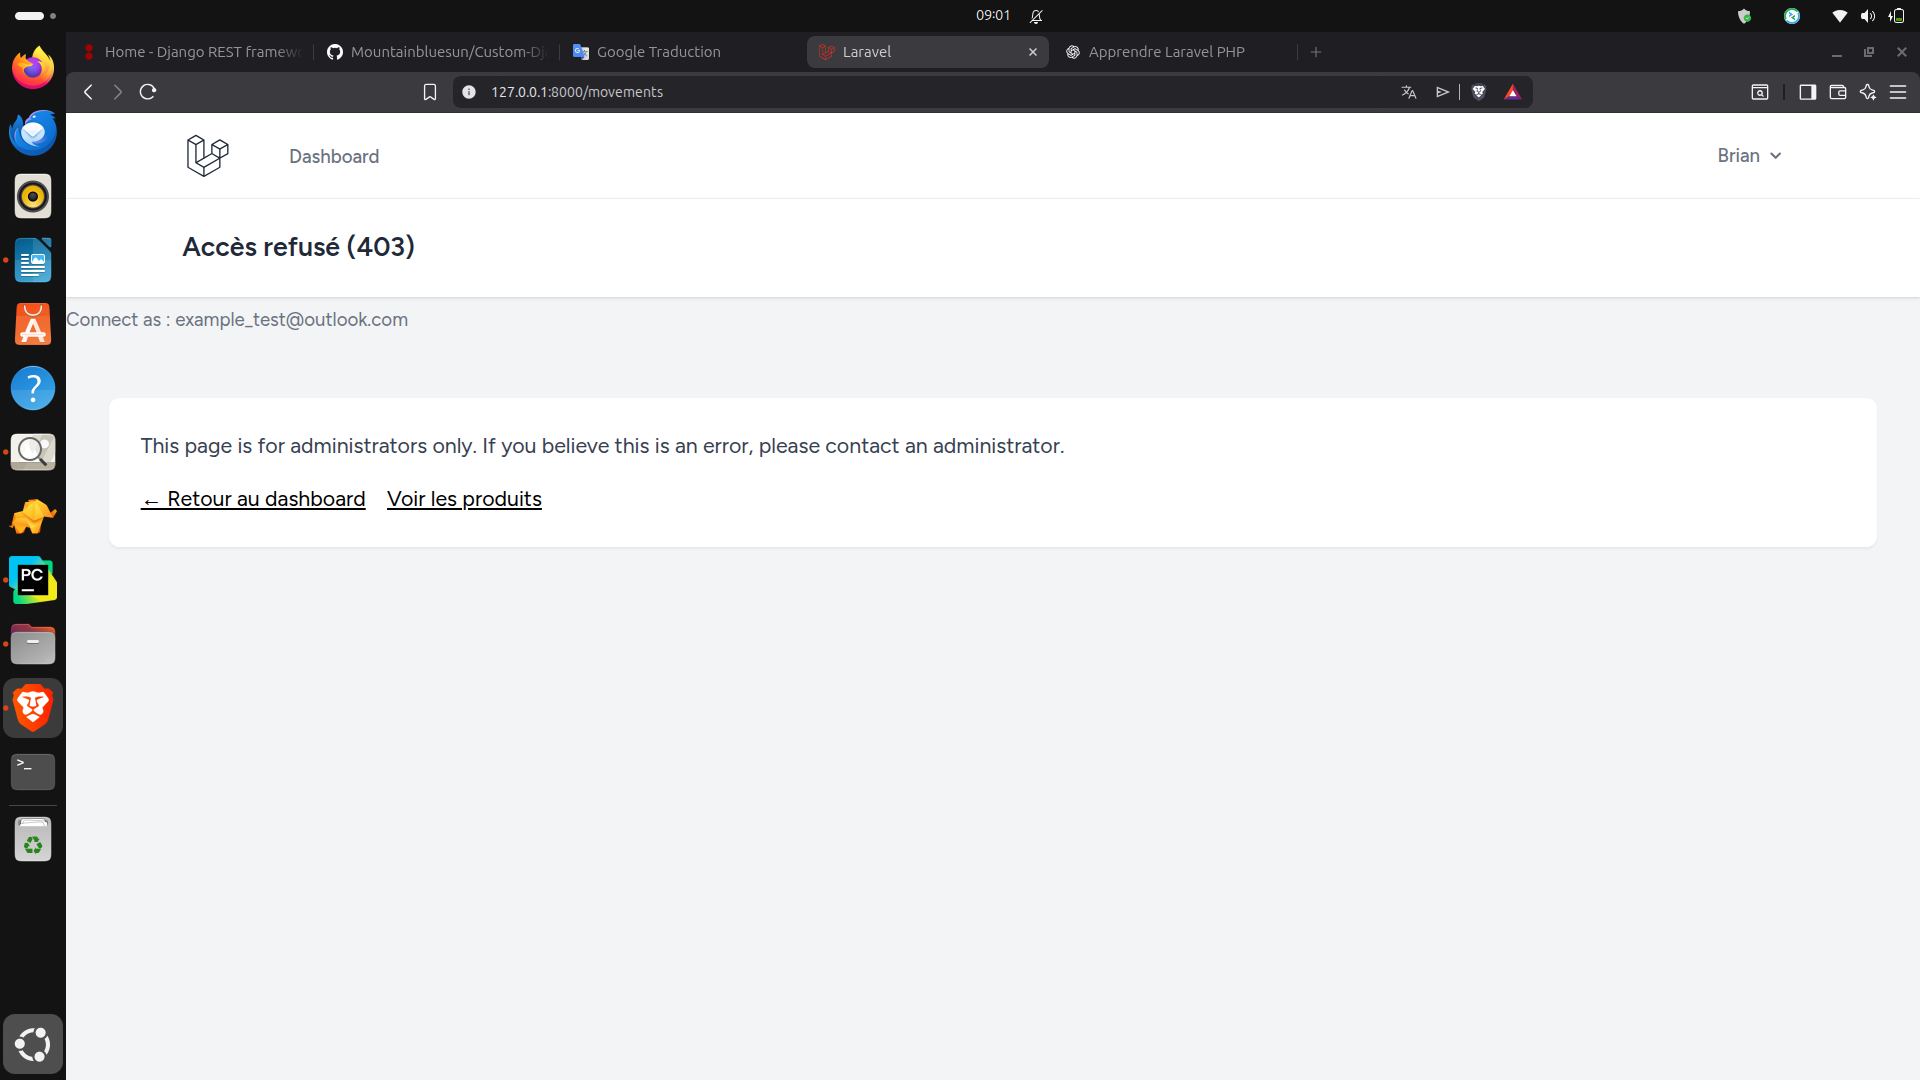
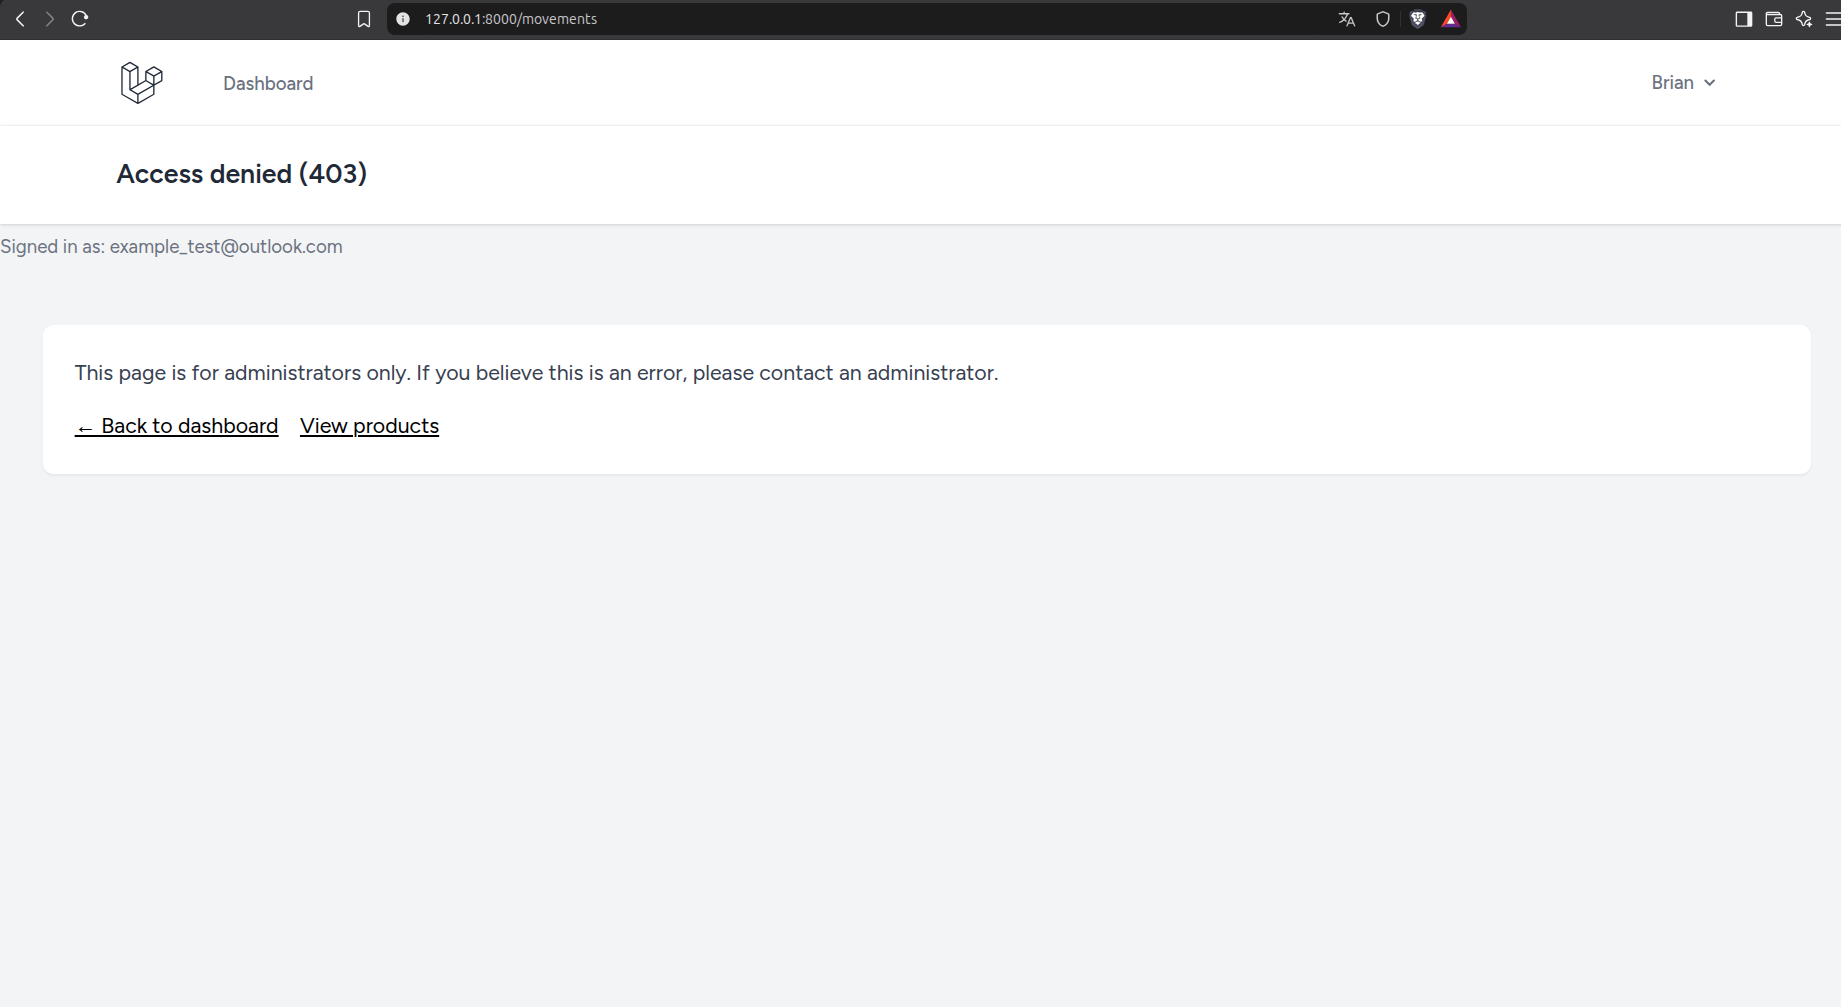
Fix global movements view structure, add table render test, update screenshots

Changed region(s): [[0.0, 0.0, 1.0, 1.0]]

diff --git a/laravel/resources/views/movements/global.blade.php b/laravel/resources/views/movements/global.blade.php
@@ -1,3 +1,7 @@
+    @php
+    $nextDirDate = (request('sort') === 'created_at' && request('dir') === 'asc') ? 'desc' : 'asc';
+    $nextDirQty  = (request('sort') === 'quantity' && request('dir') === 'asc') ? 'desc' : 'asc';
+@endphp
 <!doctype html>
 <html>
 <head>
@@ -26,31 +30,6 @@
         <option value="out" {{ request('type') === 'out' ? 'selected' : '' }}>Out</option>
     </select>
 
-    @php
-    $nextDirDate = (request('sort') === 'created_at' && request('dir') === 'asc') ? 'desc' : 'asc';
-    $nextDirQty  = (request('sort') === 'quantity' && request('dir') === 'asc') ? 'desc' : 'asc';
-@endphp
-
-<thead>
-<tr>
-    <th>
-        <a href="{{ route('movements.global', array_merge(request()->query(), ['sort' => 'created_at', 'dir' => $nextDirDate])) }}">
-            Date
-        </a>
-    </th>
-
-    <th>Product</th>
-    <th>Type</th>
-    <th>
-        <a href="{{ route('movements.global', array_merge(request()->query(), ['sort' => 'quantity', 'dir' => $nextDirQty])) }}">
-            Quantity
-        </a>
-    </th>
-    <th>Comment</th>
-    <th>Link</th>
-</tr>
-</thead>
-
     <label style="margin-left: 12px;">From:</label>
     <input type="date" name="date_from" value="{{ request('date_from') }}">
 
@@ -64,6 +43,7 @@
     <a href="{{ route('movements.export', request()->query()) }}" style="margin-left: 8px;">
         Export CSV
     </a>
+    @endcan
 
 </form>
 
@@ -73,10 +53,10 @@
     <table border="1" cellpadding="6">
         <thead>
             <tr>
-                <th>Date</th>
+                <th><a href="{{ route('movements.global', array_merge(request()->query(), ['sort' => 'created_at', 'dir' => $nextDirDate])) }}">Date</a></th>
                 <th>Product</th>
                 <th>Type</th>
-                <th>Quantity</th>
+                <th><a href="{{ route('movements.global', array_merge(request()->query(), ['sort' => 'quantity', 'dir' => $nextDirQty])) }}">Quantity</a></th>
                 <th>Stock after</th>
                 <th>User</th>
                 <th>Comment</th>
@@ -111,6 +91,5 @@
 <p style="margin-top: 16px;">
     <a href="{{ route('products.index') }}">← Back to products</a>
 </p>
-@endif
 </body>
 </html>

diff --git a/laravel/tests/Feature/StockMovementsAuthorizationTest.php b/laravel/tests/Feature/StockMovementsAuthorizationTest.php
@@ -46,3 +46,24 @@ it('allows any authenticated user to access products index', function () {
         ->get('/products')
         ->assertOk();
 });
+
+it('renders the movements table with sort links for admins', function () {
+    $admin = User::factory()->create(['is_admin' => true]);
+    $product = Product::factory()->create(['quantity' => 10]);
+
+    StockMovement::create([
+        'product_id' => $product->id,
+        'user_id' => $admin->id,
+        'type' => 'in',
+        'quantity' => 10,
+        'stock_after' => 10,
+        'comment' => 'Initial stock',
+    ]);
+
+    $this->actingAs($admin)
+        ->get('/movements')
+        ->assertOk()
+        ->assertSee($product->name)
+        ->assertSee('sort=created_at', false)
+        ->assertSee('sort=quantity', false);
+});
